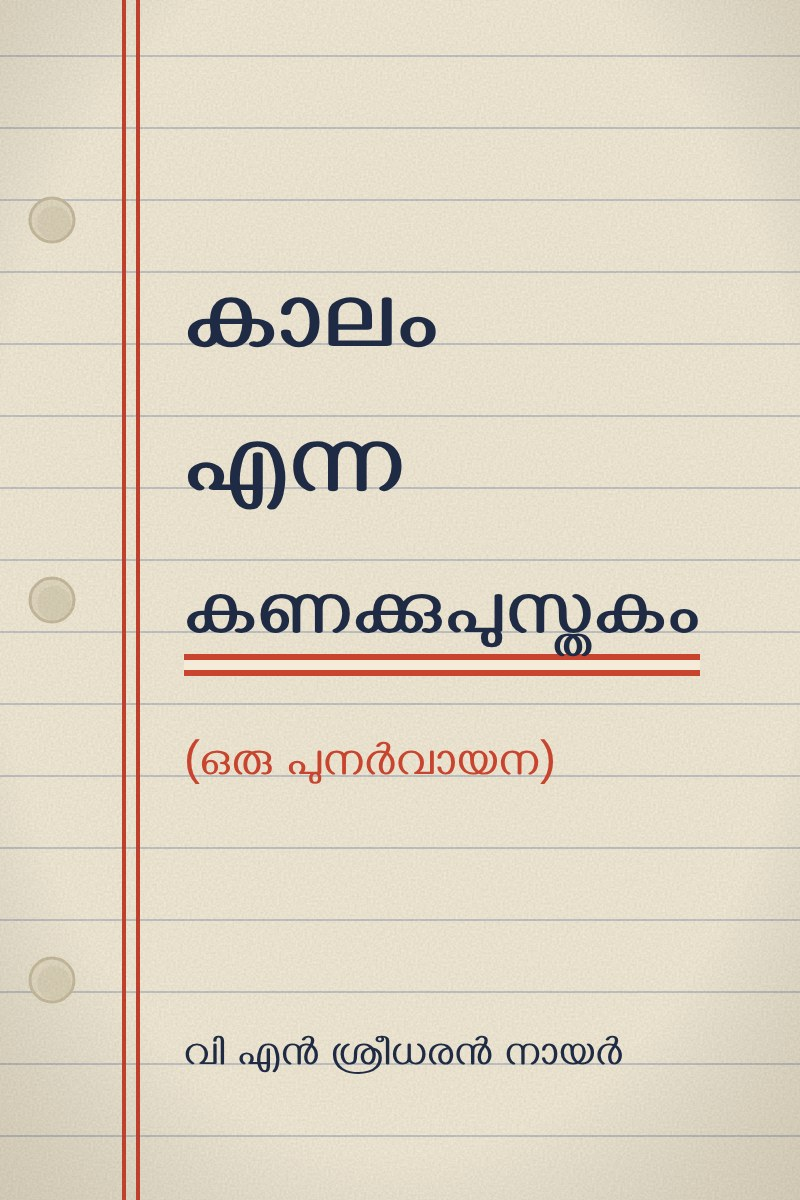
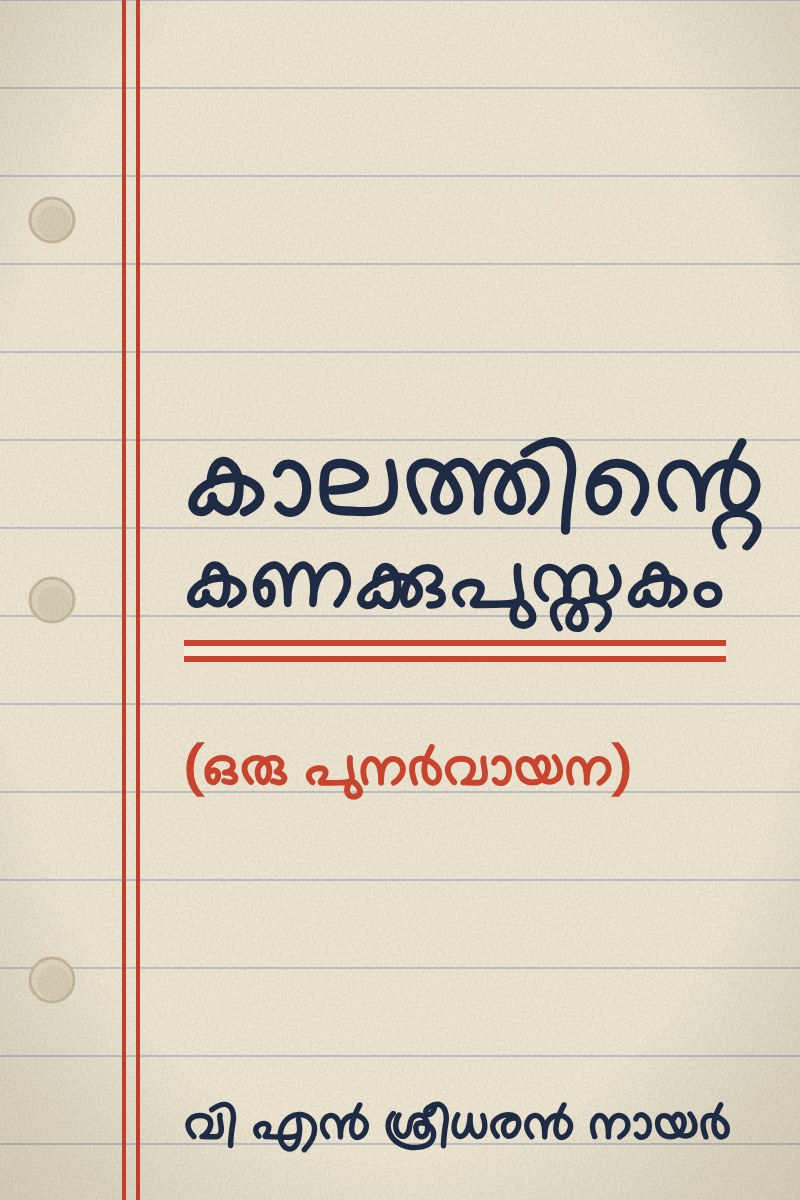
Update title and cover page

diff --git a/src/README.md b/src/README.md
@@ -1,6 +1,6 @@
 <!-- Cover (other designs are kept in src/images/) -->
 <div class="cover-art">
-<img src="images/cover-open-book.jpg?v=4" alt="Cover: കാലം എന്ന കണക്കുപുസ്തകം, open book">
+<img src="images/cover-beach-photobook-small.jpg" alt="Cover: കാലത്തിന്റെ കണക്കുപുസ്തകം, open book">
 </div>
 
 </div>
